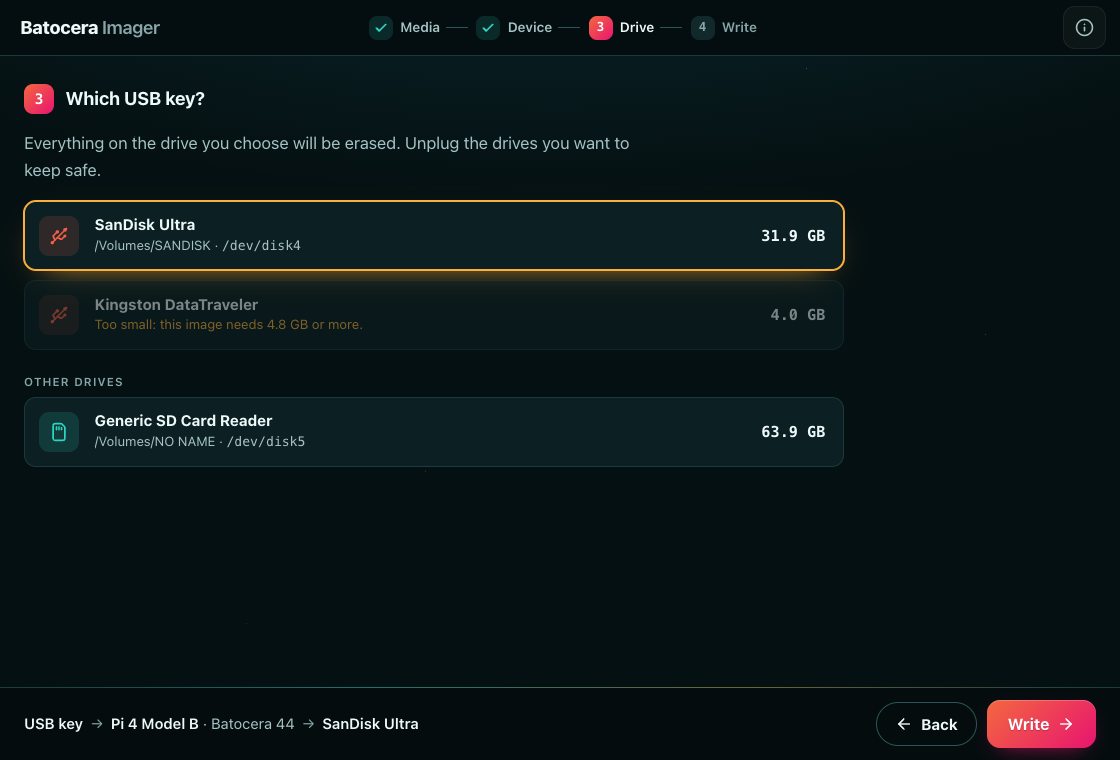
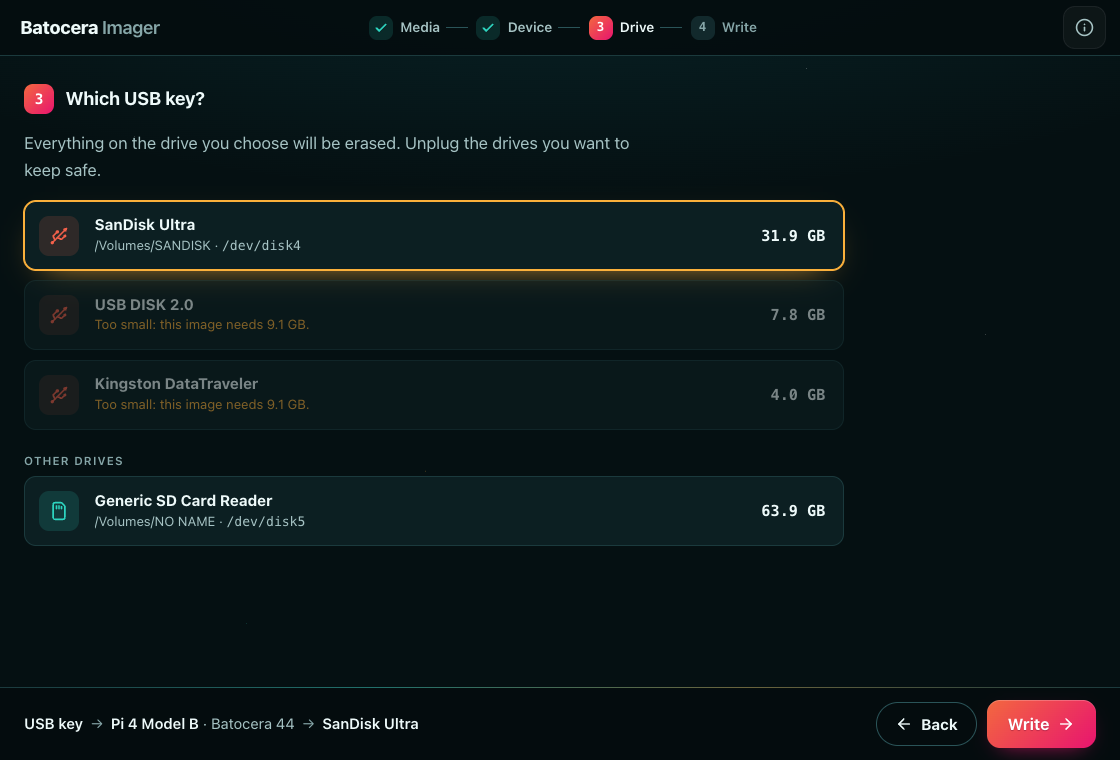
Ask for the image's size again when the drive step opens
- If the size can't be read when the device is chosen, it is asked again on
  the drive step, so drives too small are still greyed out before anything
  is downloaded; while it is unknown the drive step says so
- README: the drive screenshot shows a drive too small for the image

diff --git a/src/renderer/App.tsx b/src/renderer/App.tsx
@@ -44,6 +44,8 @@ export function App() {
   const [familyId, setFamilyId] = useState<string | null>(() => saved("family"));
   const [deviceId, setDeviceId] = useState<string | null>(() => saved("device"));
   const [image, setImage] = useState<ImageInfo | null>(null);
+  /** The size check failed (network); it is tried again when the drive step opens. */
+  const [imageFailed, setImageFailed] = useState(false);
   const [drives, setDrives] = useState<Drive[] | null>(null);
   const [drivesError, setDrivesError] = useState<string | null>(null);
   const [driveId, setDriveId] = useState<string | null>(null);
@@ -79,14 +81,24 @@ export function App() {
   }, [ready, familyId, media]);
   const drive = drives?.find(d => d.id === driveId) ?? null;
 
-  // What the chosen image needs, to grey out drives that are too small.
+  // What the chosen image needs, to grey out drives that are too small before
+  // anything is downloaded. If the request fails, it is made again each time
+  // the drive step opens.
+  const imageFor = useRef<string | null>(null);
   useEffect(() => {
-    setImage(null);
     if (!device) return;
-    let live = true;
-    api.imageInfo(device).then(info => { if (live) setImage(info); }, () => undefined);
-    return () => { live = false; };
-  }, [device]);
+    const same = imageFor.current === device.id;
+    if (same && !imageFailed) return; // known, or being asked
+    imageFor.current = device.id;
+    if (!same) setImage(null);
+    setImageFailed(false);
+    const id = device.id;
+    api.imageInfo(device).then(
+      info => { if (imageFor.current === id) setImage(info); },
+      () => { if (imageFor.current === id) setImageFailed(true); },
+    );
+    // eslint-disable-next-line react-hooks/exhaustive-deps
+  }, [device, stage]);
 
   // The drive list follows what is plugged in while it is on screen.
   useEffect(() => {
@@ -184,6 +196,7 @@ export function App() {
           error={drivesError}
           selected={drive}
           image={image}
+          imageUnknown={imageFailed && !image}
           onSelect={d => setDriveId(d.id)}
           onNext={() => setConfirming(true)}
         />

diff --git a/src/renderer/screens/DriveScreen.tsx b/src/renderer/screens/DriveScreen.tsx
@@ -2,7 +2,7 @@
 // (the main process never returns the computer's own disks), and the list
 // follows what is plugged in. Drives of the kind chosen in step 1 come first.
 
-import { LoaderCircle, Plug } from "lucide-react";
+import { Info, LoaderCircle, Plug } from "lucide-react";
 import type { Drive, ImageInfo, MediaKind } from "../../shared/types";
 import { MEDIA_ICON } from "../components/Icons";
 import { onGridKeys } from "../components/gridKeys";
@@ -15,6 +15,8 @@ interface Props {
   error: string | null;
   selected: Drive | null;
   image: ImageInfo | null;
+  /** The image's size could not be read yet: drives can't be checked against it here. */
+  imageUnknown?: boolean;
   onSelect(drive: Drive): void;
   onNext(): void;
 }
@@ -25,7 +27,7 @@ export function tooSmall(drive: Drive, image: ImageInfo | null): string | null {
   return null;
 }
 
-function DriveRow({ drive, selected, image, onSelect, onNext }: { drive: Drive } & Omit<Props, "media" | "drives" | "error">) {
+function DriveRow({ drive, selected, image, onSelect, onNext }: { drive: Drive } & Omit<Props, "media" | "drives" | "error" | "imageUnknown">) {
   const Icon = MEDIA_ICON[drive.kind];
   const problem = tooSmall(drive, image);
   const where = drive.mountpoints.length ? drive.mountpoints.join(", ") : "Not mounted";
@@ -61,6 +63,13 @@ export function DriveScreen(props: Props) {
     <div className="wrap">
       <h2 className="step-head"><b>3</b> Which {name}?</h2>
       <p className="lead">Everything on the drive you choose will be erased. Unplug the drives you want to keep safe.</p>
+      {props.imageUnknown && (
+        <p className="hint" style={{ marginTop: "-.5rem", marginBottom: "1rem" }}>
+          <Info className="icon" />
+          The image's size could not be checked yet (no answer from the server). It is checked after the download, before
+          anything is erased.
+        </p>
+      )}
 
       {error && (
         <div className="notice err" role="alert" style={{ marginBottom: "1rem", maxWidth: 820 }}>

diff --git a/CHANGELOG.md b/CHANGELOG.md
@@ -15,6 +15,8 @@ All notable changes to this project are documented here. The format follows
   before anything is erased; the writer also never writes past the end of a drive.
 - Write progress counts the bytes that reached the drive, so the empty end of an image no longer
   stalls the bar at 99 %.
+- If the image's size can't be read when the device is chosen (no answer from the server), it is
+  asked again when the drive step opens, and the drive step says so while it is unknown.
 - Windows: the drive list reads the bus however PowerShell prints it (name or number), and a
   refused write points to Controlled folder access. Linux: a missing polkit agent or a refusal by
   polkit is said in plain words.

diff --git a/README.md b/README.md
@@ -42,7 +42,7 @@ reads it back.
    when macOS asks. At the end the drive is ejected.
 
 <p align="center">
-  <img src="docs/assets/screenshots/drive.png" alt="Choosing the drive" width="820">
+  <img src="docs/assets/screenshots/drive.png" alt="Choosing the drive: drives too small for the image are greyed out" width="820">
 </p>
 
 ### A real installation
